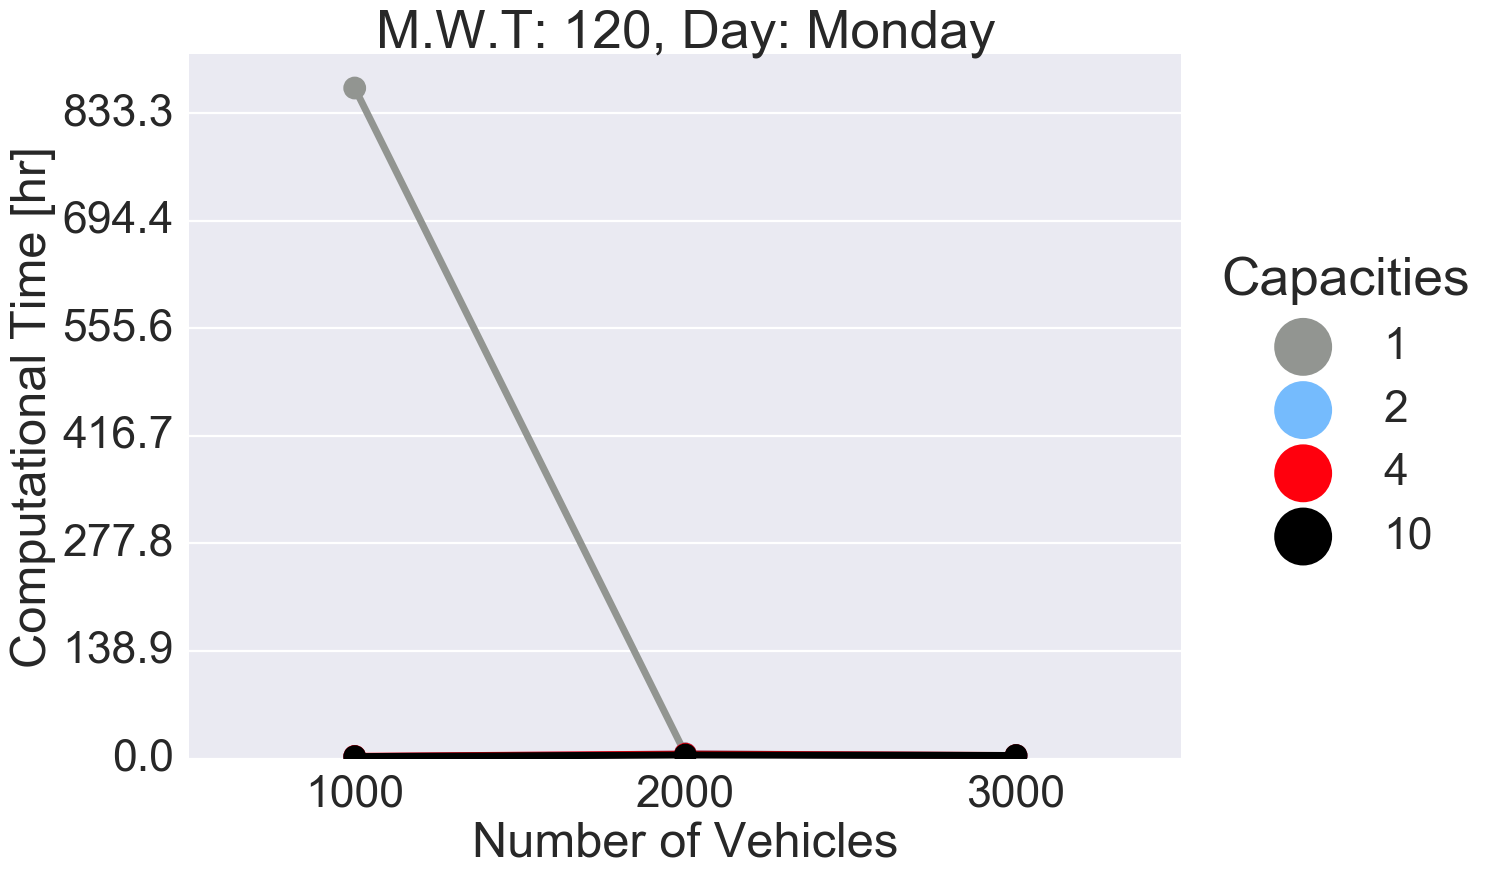
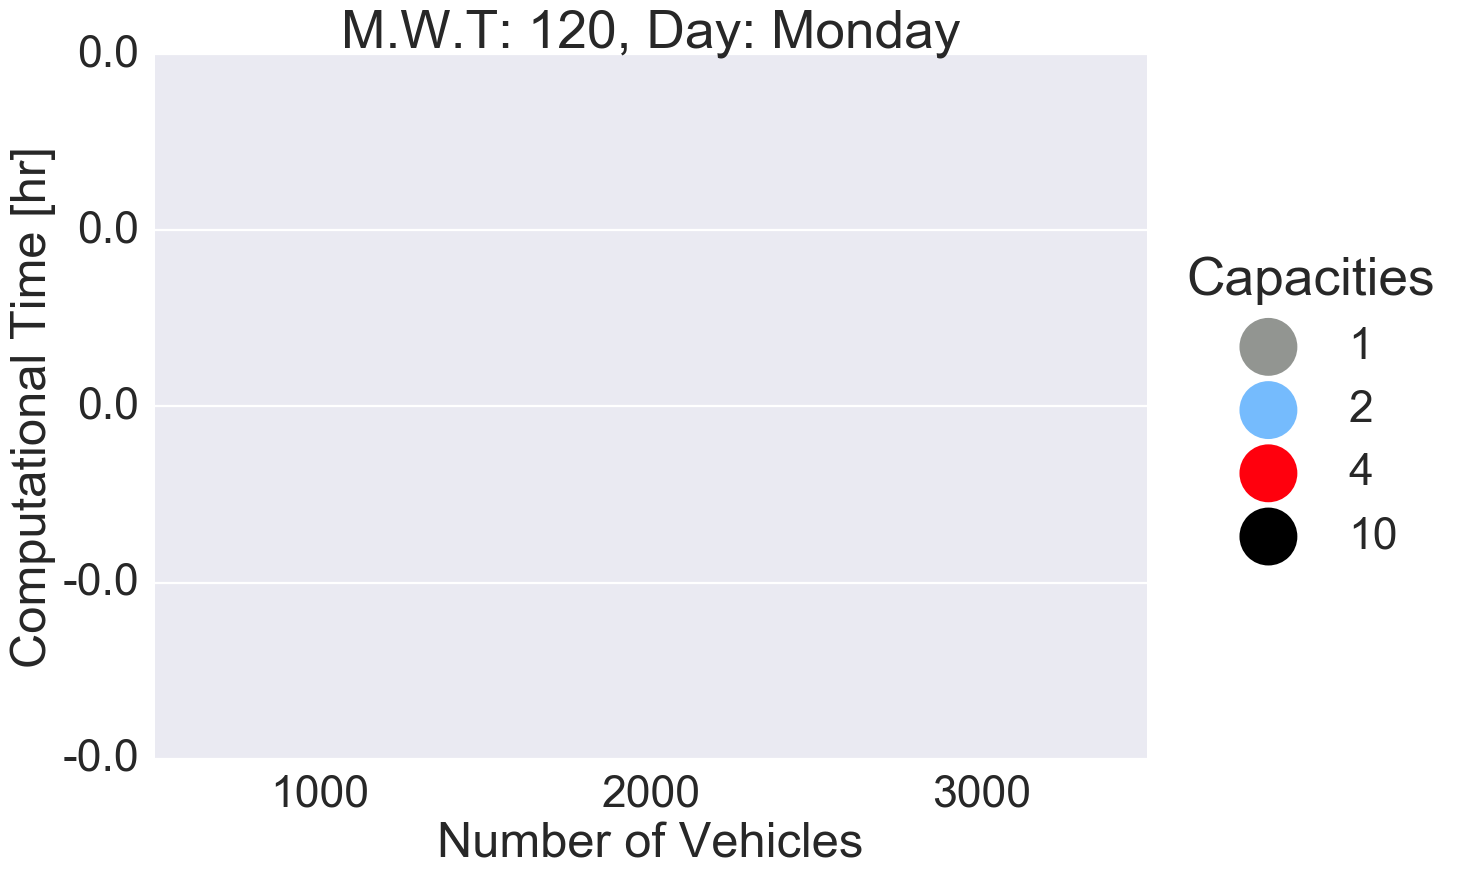
trying to remove outlier

diff --git a/scripts/load_comp_times.py b/scripts/load_comp_times.py
@@ -32,6 +32,8 @@ def generate_time_df():
     for v, c, wt, d in product(vehicles, caps, waiting_times, range(1, 8)):
         s, e = get_comp_filenames(v, c, wt, 0, d)
         diff = path.getctime(e) - path.getctime(s)
+        if diff > 100 * 3600:
+            diff = None
         data.loc[counter] = [v, c, wt, d - 1, diff]
         counter += 1
     return data
